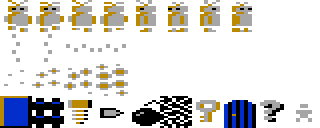
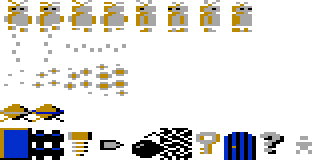
capsule ready

diff --git a/src/Main.vue b/src/Main.vue
@@ -47,15 +47,19 @@
 </template>
 
 <script>
-// dzialko
-// kapsuła
+// animacja wgrania mapy i urodzin robbo
+// dzwiek dzwoneczkow w kapsule
+// dzwiek wybuchu przy flashu
+// animacja zamkniecia levelu i wgranie kolejnego
+// uderzenie strzelu w cos co sie nie niszczy powoduje minimgle
+// dzialko strzelajace losowo
+// dzialko stale
+// rozne kierunki dzialka
 // teleportacja
 // niespodzianka
-// wybuch ze juz zebrano srubki i dzwiek
 // wybuch bomby i wybuchanie innych bomb dookola w lancuchu
 // po zniszczeniu robbo wylaczyc klawiature, przewinac obraz do gory az do odrodzenia
 // ------
-// animacja wgrania mapy i urodzin robbo
 // reset mapy esc
 // wykrycie inspectora i blokada
 import {
@@ -64,6 +68,7 @@ import {
 } from 'vuex';
 import Ammo from './components/Ammo.vue';
 import Bomb from './components/Bomb.vue';
+import Capsule from './components/Capsule.vue';
 import Crate from './components/Crate.vue';
 import Door from './components/Door.vue';
 import Fog from './components/Fog.vue';
@@ -82,6 +87,7 @@ export default {
   components: {
     Ammo,
     Bomb,
+    Capsule,
     Crate,
     Door,
     Fog,
@@ -99,6 +105,12 @@ export default {
     keyboard,
   ],
 
+  data() {
+    return {
+      isFlashActive: false,
+    };
+  },
+
   computed: {
     ...mapGetters([
       'ammoGetter',
@@ -111,7 +123,11 @@ export default {
     ]),
 
     viewportClass() {
-      return `viewport level-${this.levelGetter}`;
+      return [
+        'viewport',
+        `level-${this.levelGetter}`,
+        this.isFlashActive ? 'flash' : null,
+      ];
     },
   },
 
@@ -126,8 +142,10 @@ export default {
     this.setLifesAction(8);
     this.setLevelAction(1);
 
+    eventBus.$on('capsule-ready', this.capsuleReady);
     eventBus.$on('component-collected', this.componentCollected);
     eventBus.$on('component-opened', this.componentOpened);
+    eventBus.$on('level-finished', this.levelFinished);
     eventBus.$on('move-camera', this.moveCamera);
     eventBus.$on('move-component', this.moveComponent);
     eventBus.$on('play-sound', this.playSound);
@@ -150,6 +168,16 @@ export default {
       'setLifesAction',
       'setComponentPositionAction',
     ]),
+
+    capsuleReady() {
+      setTimeout(() => {
+        this.isFlashActive = true;
+
+        setTimeout(() => {
+          this.isFlashActive = false;
+        }, 100);
+      }, 200);
+    },
 
     componentCollected(name) {
       const componentCollectedAction = this[`${name === 'Screw' ? 'delete' : 'add'}${name}Action`];
@@ -185,6 +213,10 @@ export default {
       });
 
       return props;
+    },
+
+    levelFinished() {
+
     },
 
     async loadMap() {
@@ -271,6 +303,10 @@ export default {
       .component {
         background-image: url('assets/skins/1.png');
       }
+    }
+
+    &.flash {
+      background-color: #fff;
     }
   }
 

diff --git a/src/mixins/keyboard.js b/src/mixins/keyboard.js
@@ -8,7 +8,6 @@ export default {
   data() {
     return {
       isShiftActive: false,
-      robboId: null,
     };
   },
 
@@ -16,15 +15,8 @@ export default {
     ...mapGetters([
       'componentPropsGetter',
       'nextPositionGetter',
+      'robboIdGetter',
     ]),
-  },
-
-  watch: {
-    mapGetter(newMap, oldMap) {
-      if (!oldMap.length) {
-        this.robboId = this.mapGetter.find((component) => component.name === 'Robbo').id;
-      }
-    },
   },
 
   created() {
@@ -33,7 +25,7 @@ export default {
 
     this.keyArrowDown = throttle(function () {
       const params = {
-        id: this.robboId,
+        id: this.robboIdGetter,
         axis: 'y',
         direction: 'positive',
       };
@@ -50,7 +42,7 @@ export default {
 
     this.keyArrowUp = throttle(function () {
       const params = {
-        id: this.robboId,
+        id: this.robboIdGetter,
         axis: 'y',
         direction: 'negative',
       };
@@ -67,7 +59,7 @@ export default {
 
     this.keyArrowLeft = throttle(function () {
       const params = {
-        id: this.robboId,
+        id: this.robboIdGetter,
         axis: 'x',
         direction: 'negative',
       };
@@ -84,7 +76,7 @@ export default {
 
     this.keyArrowRight = throttle(function () {
       const params = {
-        id: this.robboId,
+        id: this.robboIdGetter,
         axis: 'x',
         direction: 'positive',
       };

diff --git a/src/components/Capsule.vue b/src/components/Capsule.vue
@@ -1,0 +1,77 @@
+<template>
+  <div
+    :class="[
+      componentClass,
+      skinClass,
+    ]"
+    :style="componentPosition"
+  />
+</template>
+
+<script>
+import { mapGetters } from 'vuex';
+import component from '../mixins/component';
+import eventBus from '../utils/eventBus';
+
+export default {
+  mixins: [component],
+
+  props: {
+    movable: {
+      type: Boolean,
+      default: true,
+    },
+  },
+
+  data() {
+    return {
+      skinStep: 1,
+    };
+  },
+
+  computed: {
+    ...mapGetters([
+      'componentGetter',
+      'robboIdGetter',
+      'screwsGetter',
+    ]),
+
+    skinClass() {
+      return `capsule-${this.skinStep}`;
+    },
+  },
+
+  watch: {
+    screwsGetter: {
+      immediate: true,
+      handler(screws) {
+        if (!screws && this.componentGetter(this.robboIdGetter)) {
+          eventBus.$emit('capsule-ready');
+
+          setInterval(() => {
+            this.skinStep = this.skinStep === 2 ? 1 : 2;
+          }, this.$config.capsuleAnimationTime);
+        }
+      },
+    },
+    x() {
+      eventBus.$emit('play-sound', 'move');
+    },
+    y() {
+      eventBus.$emit('play-sound', 'move');
+    },
+  },
+};
+</script>
+
+<style lang="scss" scoped>
+  .capsule {
+     &-1 {
+      background-position: 0 -96px;
+    }
+
+    &-2 {
+      background-position: -32px -96px;
+    }
+  }
+</style>

diff --git a/src/store.js b/src/store.js
@@ -61,6 +61,12 @@ export default function () {
         };
       },
 
+      robboIdGetter: (state, getters) => {
+        const robboComponent = getters.mapGetter.find((component) => component.name === 'Robbo');
+
+        return robboComponent ? robboComponent.id : null;
+      },
+
       screwsGetter: (state) => state.screws,
     },
 
@@ -110,11 +116,16 @@ export default function () {
                 eventBus.$emit('play-sound', collidingComponentName);
                 eventBus.$emit('component-opened', collidingComponentName);
               } else if (collidingComponentType.movable) {
-                eventBus.$emit('move-component', {
-                  id: collidingComponent.id,
-                  axis,
-                  direction,
-                });
+                if (!(collidingComponentName === 'Capsule' && !state.screws)) {
+                  eventBus.$emit('move-component', {
+                    id: collidingComponent.id,
+                    axis,
+                    direction,
+                  });
+                } else {
+                  state.map.splice(movingComponentIndex, 1);
+                  eventBus.$emit('level-finished');
+                }
               }
 
               const robboCollisionAfterMoving = isCollisionDetected(state.map, id, nextPosition);

diff --git a/src/mixins/animation.js b/src/mixins/animation.js
@@ -19,9 +19,9 @@ export default {
 
     shotComponents(newShotComponents, oldShotComponents) {
       const shotComponent = difference(newShotComponents, oldShotComponents)[0];
-      const intervalHandler = setInterval(animateShot.bind(this), this.$config.moveThrottle);
+      const intervalHandler = setInterval(moveShot.bind(this), this.$config.moveThrottle);
 
-      function animateShot() {
+      function moveShot() {
         const isShotComponentExisting = this.componentGetter(shotComponent.id);
 
         if (isShotComponentExisting) {

diff --git a/src/components/Shot.vue b/src/components/Shot.vue
@@ -40,11 +40,11 @@ export default {
   },
 
   watch: {
-    x(newX) {
-      this.skinStep = newX % 2 === 0 ? 1 : 2;
+    x() {
+      this.skinStep = this.skinStep === 2 ? 1 : 2;
     },
-    y(newY) {
-      this.skinStep = newY % 2 === 0 ? 1 : 2;
+    y() {
+      this.skinStep = this.skinStep === 2 ? 1 : 2;
     },
   },
 };

diff --git a/src/config.js b/src/config.js
@@ -3,6 +3,7 @@ export default class Config {
 
   constructor() {
     this.config = {
+      capsuleAnimationTime: 500,
       fogAnimationTime: 100,
       isSoundEnabled: true,
       movableComponents: [
